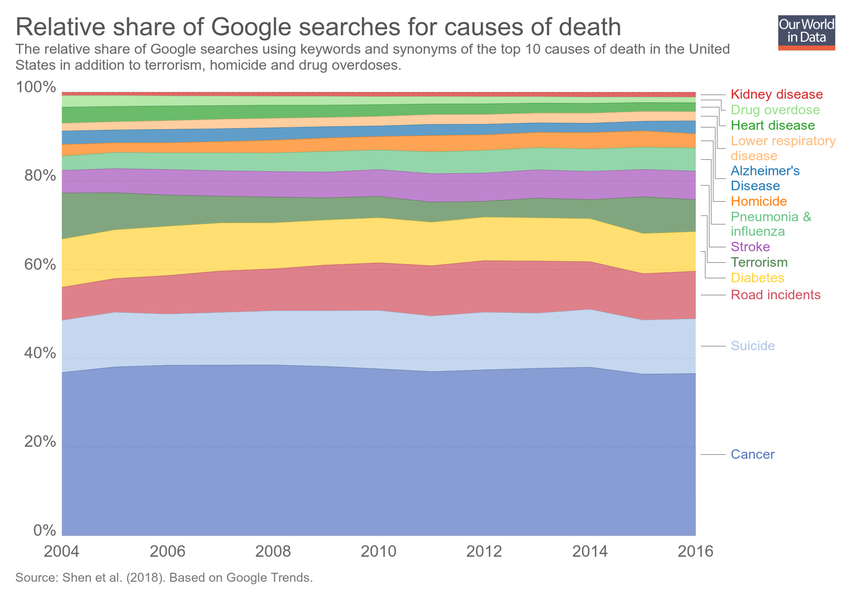
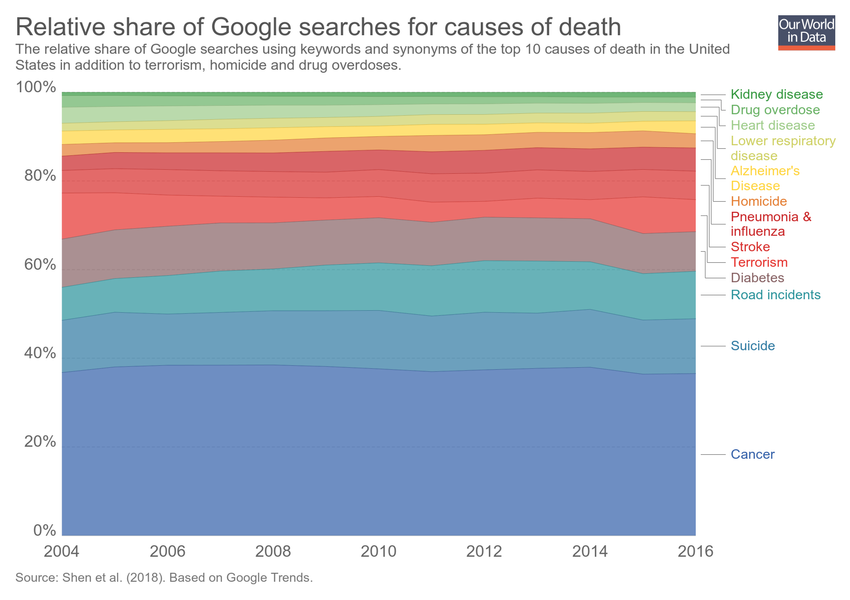
Updating chart relative-share-of-google-searches-for-causes-of-death

diff --git a/grapher/relative-share-of-google-searches-for-causes-of-death.html b/grapher/relative-share-of-google-searches-for-causes-of-death.html
@@ -1,4 +1,4 @@
-<!doctype html><html><head><meta name="viewport" content="width=device-width, initial-scale=1" /><title>Relative share of Google searches for causes of death - Our World in Data</title><meta name="description" content="The relative share of Google searches using keywords and synonyms of the top 10 causes of death in the United States in addition to terrorism, homicide and drug overdoses. " /><link rel="canonical" href="https://ourworldindata.org/grapher/relative-share-of-google-searches-for-causes-of-death" /><meta property="fb:app_id" content="1149943818390250" /><meta property="og:url" content="https://ourworldindata.org/grapher/relative-share-of-google-searches-for-causes-of-death" /><meta property="og:title" content="Relative share of Google searches for causes of death" /><meta property="og:description" content="The relative share of Google searches using keywords and synonyms of the top 10 causes of death in the United States in addition to terrorism, homicide and drug overdoses. " /><meta property="og:image" content="https://ourworldindata.org/grapher/exports/relative-share-of-google-searches-for-causes-of-death.png?v=1" /><meta property="og:image:width" content="850" /><meta property="og:image:height" content="600" /><meta property="og:site_name" content="Our World in Data" /><meta name="twitter:card" content="summary_large_image" /><meta name="twitter:site" content="@OurWorldInData" /><meta name="twitter:creator" content="@OurWorldInData" /><meta name="twitter:title" content="Relative share of Google searches for causes of death" /><meta name="twitter:description" content="The relative share of Google searches using keywords and synonyms of the top 10 causes of death in the United States in addition to terrorism, homicide and drug overdoses. " /><meta name="twitter:image" content="https://ourworldindata.org/grapher/exports/relative-share-of-google-searches-for-causes-of-death.png?v=1" /><style>
+<!doctype html><html><head><meta name="viewport" content="width=device-width, initial-scale=1" /><title>Relative share of Google searches for causes of death - Our World in Data</title><meta name="description" content="The relative share of Google searches using keywords and synonyms of the top 10 causes of death in the United States in addition to terrorism, homicide and drug overdoses. " /><link rel="canonical" href="https://ourworldindata.org/grapher/relative-share-of-google-searches-for-causes-of-death" /><meta property="fb:app_id" content="1149943818390250" /><meta property="og:url" content="https://ourworldindata.org/grapher/relative-share-of-google-searches-for-causes-of-death" /><meta property="og:title" content="Relative share of Google searches for causes of death" /><meta property="og:description" content="The relative share of Google searches using keywords and synonyms of the top 10 causes of death in the United States in addition to terrorism, homicide and drug overdoses. " /><meta property="og:image" content="https://ourworldindata.org/grapher/exports/relative-share-of-google-searches-for-causes-of-death.png?v=2" /><meta property="og:image:width" content="850" /><meta property="og:image:height" content="600" /><meta property="og:site_name" content="Our World in Data" /><meta name="twitter:card" content="summary_large_image" /><meta name="twitter:site" content="@OurWorldInData" /><meta name="twitter:creator" content="@OurWorldInData" /><meta name="twitter:title" content="Relative share of Google searches for causes of death" /><meta name="twitter:description" content="The relative share of Google searches using keywords and synonyms of the top 10 causes of death in the United States in addition to terrorism, homicide and drug overdoses. " /><meta name="twitter:image" content="https://ourworldindata.org/grapher/exports/relative-share-of-google-searches-for-causes-of-death.png?v=2" /><style>
         html, body {
             height: 100%;
             margin: 0;
@@ -20,8 +20,8 @@
         }
     </style><noscript><style>
                     figure { display: none !important; }
-                </style></noscript><link rel="stylesheet" href="https://ourworldindata.org/grapher/assets/commons.bundle.9b8c6ed3f71d7662b5f2.css" /><link rel="preload" href="/grapher/data/variables/98742.json?v=1" as="fetch" crossorigin /></head><body class="singleChart"><figure data-grapher-src="/grapher/relative-share-of-google-searches-for-causes-of-death"></figure><noscript id="fallback"><img src="/grapher/exports/relative-share-of-google-searches-for-causes-of-death.svg" /><p>Interactive visualization requires JavaScript</p></noscript><script src="https://cdn.polyfill.io/v2/polyfill.min.js?features=es6,fetch"></script><script src="https://ourworldindata.org/grapher/assets/commons.bundle.9b8c6ed3f71d7662b5f2.js"></script><script src="https://ourworldindata.org/grapher/assets/charts.bundle.9b8c6ed3f71d7662b5f2.js"></script><script>
-        var jsonConfig = {"map":{"projection":"World","colorSchemeLabels":[],"colorSchemeValues":[],"customNumericColors":[],"customCategoryColors":{},"customCategoryLabels":{},"customHiddenCategories":{}},"tab":"chart","slug":"relative-share-of-google-searches-for-causes-of-death","type":"StackedArea","title":"Relative share of Google searches for causes of death","xAxis":{"scaleType":"linear"},"yAxis":{"min":0,"scaleType":"linear"},"version":1,"subtitle":"The relative share of Google searches using keywords and synonyms of the top 10 causes of death in the United States in addition to terrorism, homicide and drug overdoses. ","hasMapTab":false,"stackMode":"relative","dimensions":[{"display":{},"property":"y","variableId":98742}],"isAutoSlug":true,"sourceDesc":"Shen et al. (2018). Based on Google Trends.","hasChartTab":true,"isPublished":true,"selectedData":[{"index":0,"entityId":37532},{"index":0,"entityId":37534},{"index":0,"entityId":37530},{"index":0,"entityId":37533},{"index":0,"entityId":37526},{"index":0,"entityId":37531},{"index":0,"entityId":37535},{"index":0,"entityId":37536},{"index":0,"entityId":37538},{"index":0,"entityId":37529},{"index":0,"entityId":37528},{"index":0,"entityId":37537},{"index":0,"entityId":37527}],"addCountryMode":"disabled","baseColorScheme":"continents","hideRelativeToggle":true,"id":3157};
+                </style></noscript><link rel="stylesheet" href="https://ourworldindata.org/grapher/assets/commons.bundle.9b8c6ed3f71d7662b5f2.css" /><link rel="preload" href="/grapher/data/variables/98742.json?v=2" as="fetch" crossorigin /></head><body class="singleChart"><figure data-grapher-src="/grapher/relative-share-of-google-searches-for-causes-of-death"></figure><noscript id="fallback"><img src="/grapher/exports/relative-share-of-google-searches-for-causes-of-death.svg" /><p>Interactive visualization requires JavaScript</p></noscript><script src="https://cdn.polyfill.io/v2/polyfill.min.js?features=es6,fetch"></script><script src="https://ourworldindata.org/grapher/assets/commons.bundle.9b8c6ed3f71d7662b5f2.js"></script><script src="https://ourworldindata.org/grapher/assets/charts.bundle.9b8c6ed3f71d7662b5f2.js"></script><script>
+        var jsonConfig = {"id":3157,"map":{"projection":"World","colorSchemeLabels":[],"colorSchemeValues":[],"customNumericColors":[],"customCategoryColors":{},"customCategoryLabels":{},"customHiddenCategories":{}},"tab":"chart","slug":"relative-share-of-google-searches-for-causes-of-death","type":"StackedArea","title":"Relative share of Google searches for causes of death","xAxis":{"scaleType":"linear"},"yAxis":{"min":0,"scaleType":"linear"},"version":2,"subtitle":"The relative share of Google searches using keywords and synonyms of the top 10 causes of death in the United States in addition to terrorism, homicide and drug overdoses. ","hasMapTab":false,"stackMode":"relative","dimensions":[{"display":{},"property":"y","variableId":98742}],"sourceDesc":"Shen et al. (2018). Based on Google Trends.","hasChartTab":true,"isPublished":true,"selectedData":[{"index":0,"entityId":37532},{"index":0,"entityId":37534},{"index":0,"entityId":37530},{"index":0,"entityId":37533},{"index":0,"entityId":37526},{"index":0,"entityId":37531},{"index":0,"entityId":37535},{"index":0,"entityId":37536},{"index":0,"entityId":37538},{"index":0,"entityId":37529},{"index":0,"entityId":37528},{"index":0,"entityId":37537},{"index":0,"entityId":37527}],"addCountryMode":"disabled","hideRelativeToggle":true};
         var figure = document.getElementsByTagName("figure")[0];
         try {
             window.App = {};
